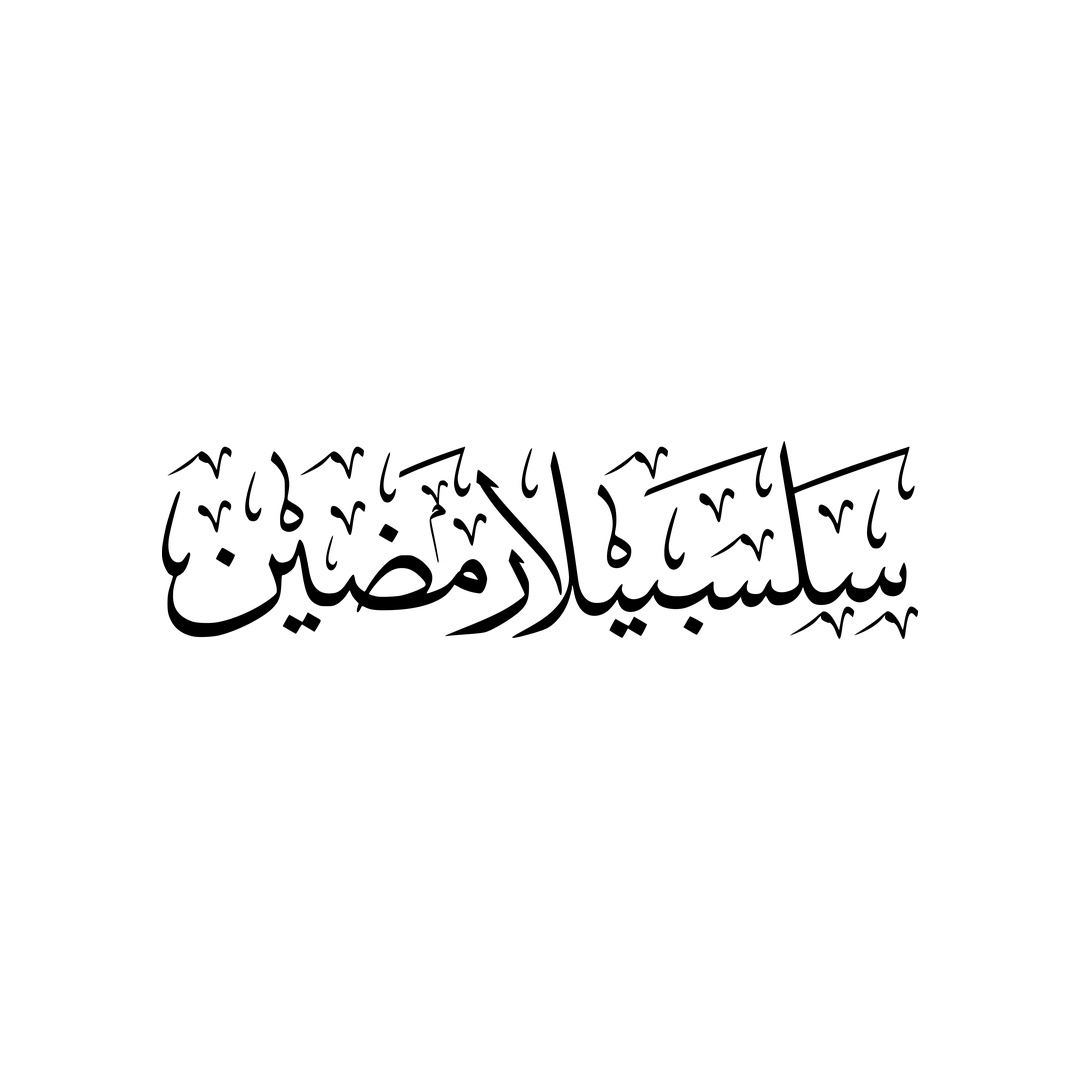
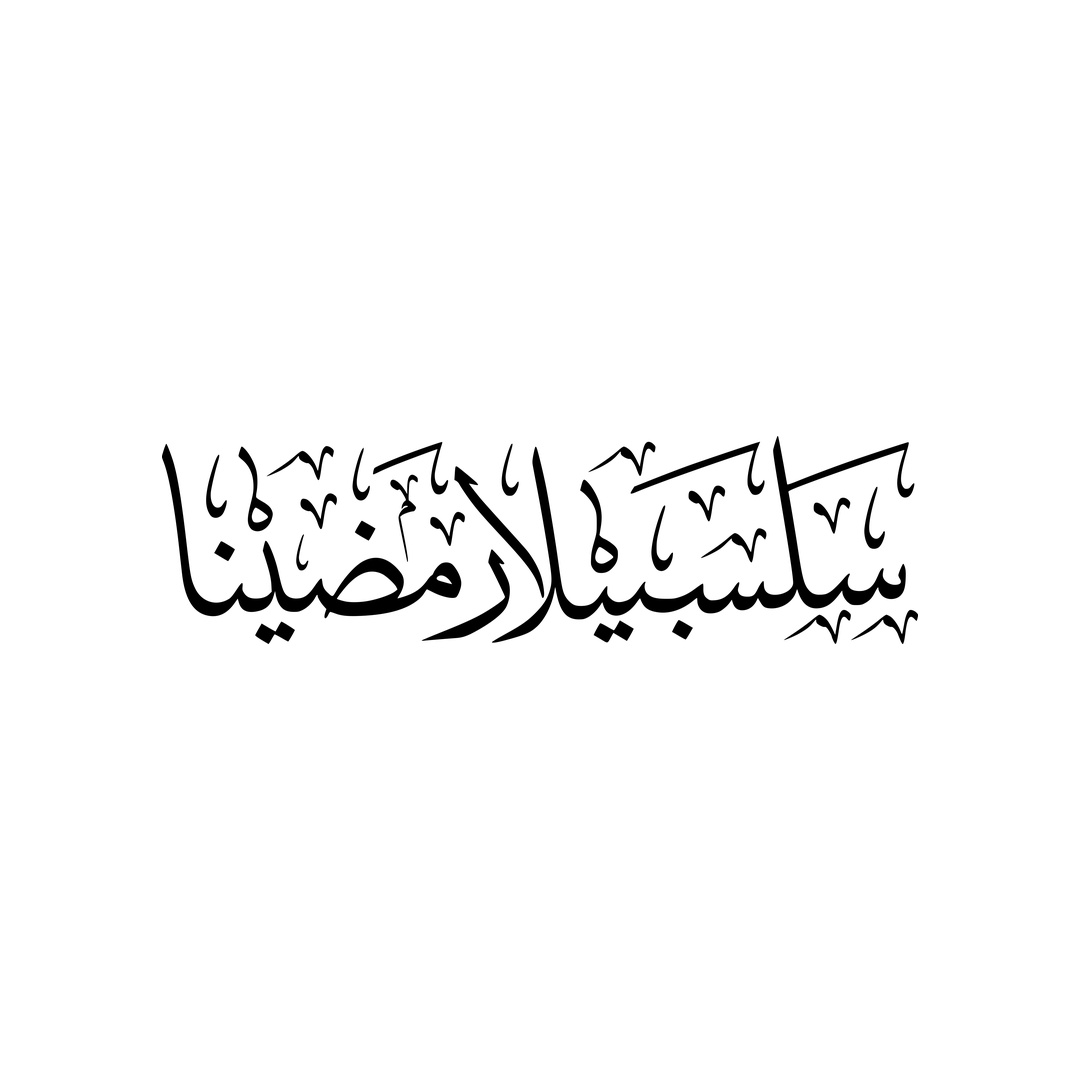
Update gambar #39 فتريا ألفي, #04 إيفيتا جوفانا جنيدي (PNG + JPG)

Changed region(s): [[0.1528, 0.3972, 0.8556, 0.6111]]

diff --git a/manifest.js b/manifest.js
@@ -2,7 +2,7 @@ window.CALLIGRAPHY = [
   {"n":1,"name":"ابتهال سيف خمس الوضاحية","src":"png/01.png","orig":"ابتهال الوضاحية.png","w":3656,"h":1181},
   {"n":2,"name":"اسمي خيرية","src":"png/02.png","orig":"اسمي خيرية.png","w":3623,"h":1181},
   {"n":3,"name":"إحدى حسنيين","src":"png/03.png","orig":"إحدى حسنيين.png","w":4293,"h":1181},
-  {"n":4,"name":"إيفيتا جوفانا جنيدي","src":"png/04.png","orig":"إيفيتا جوفانا جنيدي.png","w":4484,"h":1181},
+  {"n":4,"name":"إيفيتا جوفانا جنيدي","src":"png/04.png","orig":"إيفيتا جوفانا جنيدي.png","w":4593,"h":1181},
   {"n":5,"name":"أديستي دوي سوليستيا","src":"png/05.png","orig":"أديستي دوي سوليستيا.png","w":6481,"h":1181},
   {"n":6,"name":"أولياء  هينتنا بوتري","src":"png/06.png","orig":"أولياء  هينتنا بوتري.png","w":4034,"h":1181},
   {"n":7,"name":"أوليفيا نيرفانا","src":"png/07.png","orig":"أوليفيا نيرفانا.png","w":3355,"h":1181},
@@ -25,7 +25,7 @@ window.CALLIGRAPHY = [
   {"n":24,"name":"زكية نور جوليانطو","src":"png/24.png","orig":"زكية نور جوليانطو.png","w":2028,"h":1181},
   {"n":25,"name":"سبع المثاني","src":"png/25.png","orig":"سبع المثاني.png","w":3227,"h":1181},
   {"n":26,"name":"سبيلا تجهيا عكريمة","src":"png/26.png","orig":"سبيلا تجهيا عكريمة.png","w":4142,"h":1181},
-  {"n":27,"name":"سلسبيلا رمضين","src":"png/27.png","orig":"سلسبيلا رمضين.png","w":4507,"h":1181},
+  {"n":27,"name":"سلسبيلا رمضينا","src":"png/27.png","orig":"سلسبيلا رمضينا.png","w":4295,"h":1181},
   {"n":28,"name":"سمية أغوس طائلة","src":"png/28.png","orig":"سمية أغوس طائلة.png","w":4164,"h":1181},
   {"n":29,"name":"سيتي عائشة ناسوتيون","src":"png/29.png","orig":"سيتي عائشة ناسوتيون.png","w":6214,"h":1181},
   {"n":30,"name":"سيتي لطيفة السليمة","src":"png/30.png","orig":"سيتي لطيفة السليمة.png","w":5404,"h":1181},
@@ -37,7 +37,7 @@ window.CALLIGRAPHY = [
   {"n":36,"name":"فاطمة الزهراء أحمد","src":"png/36.png","orig":"فاطمة الزهراء أحمد.png","w":3360,"h":1181},
   {"n":37,"name":"فاطمة أحمد فرحان","src":"png/37.png","orig":"فاطمة أحمد فرحان.png","w":4465,"h":1181},
   {"n":38,"name":"فاطمة زهرة النساء","src":"png/38.png","orig":"فاطمة زهرة النساء.png","w":4794,"h":1181},
-  {"n":39,"name":"فتريا ألفى","src":"png/39.png","orig":"فتريا ألفى.png","w":2527,"h":1181},
+  {"n":39,"name":"فتريا ألفي","src":"png/39.png","orig":"فتريا ألفي.png","w":2443,"h":1181},
   {"n":40,"name":"فرح حميراء زيتون","src":"png/40.png","orig":"فرح حميراء زيتون.png","w":4378,"h":1181},
   {"n":41,"name":"فضيلة النساء الشهيدة","src":"png/41.png","orig":"فضيلة النساء الشهيدة.png","w":5097,"h":1181},
   {"n":42,"name":"فضيلة رحمة عثمان","src":"png/42.png","orig":"فضيلة رحمة عثمان.png","w":3507,"h":1181},
